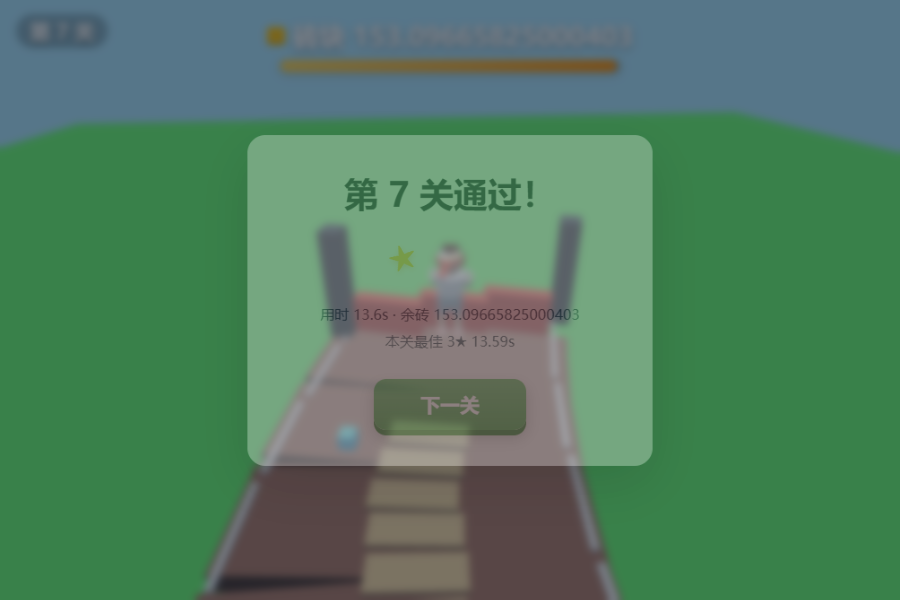
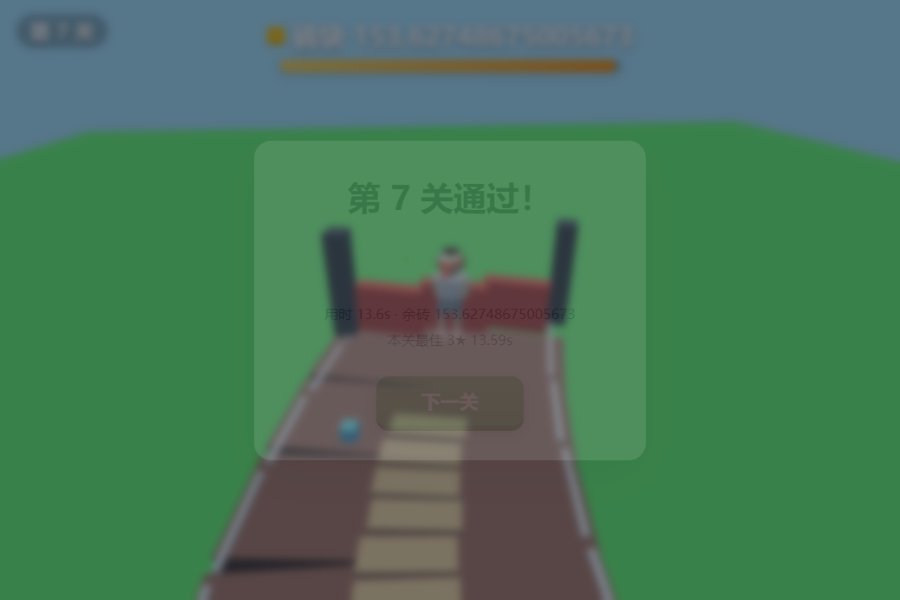
自由铺板机制移植 Cocos 版(与浏览器版对齐): TrackBuilder.spawnPlank/isOnMainRoad + GameApp.updateShortcut(耗板/加速/最后一跃) + 终点到达即过关 + 横向放宽; 浏览器加运行错误横幅; 四门全绿

Changed region(s): [[0.0, 0.18, 1.0, 1.0], [0.2178, 0.87, 0.5289, 1.0]]

diff --git a/assets/scripts/GameApp.ts b/assets/scripts/GameApp.ts
@@ -65,10 +65,12 @@ export class GameApp extends Component {
   private heldRight = false;
   private elapsed = 0;
   private runT0 = 0;
-  private speedDip = 0; // 铺桥瞬间轻微减速（J4 手感）
   private runCycle = 0; // 角色步态相位
   private fell = false;  // 是否坠落死亡（决定 lose 姿势：旋水 or 站立）
-  private bridgeT = 0;   // 铺桥推掷动作剩余时间（v2 增强）
+  private bridgeT = 0;   // 铺板推掷动作剩余时间（v2 增强）
+  private offRoad = false; // 当前是否在主路外（铺板模式）
+  private plankAcc = 0;    // 累计铺板距离（米）
+  private leapGrace = 0;   // 剩余最后一跃距离（米），>0 表示飞跃中不耗板
   private curve: CurveState = { amp: 0, freq: 0.12, phase: 0 }; // 弯道（表现层）
 
   onLoad(): void {
@@ -243,7 +245,8 @@ export class GameApp extends Component {
   }
 
   private clampTarget(): void {
-    const m = this.cfg.trackHalfWidth - 0.45;
+    // 允许横移出主路铺捷径（超出主路半宽即耗板，原版机制）
+    const m = this.cfg.trackHalfWidth + 3.5;
     this.targetX = clamp(this.targetX, -m, m);
   }
 
@@ -268,15 +271,17 @@ export class GameApp extends Component {
 
     if (this.state === 'run') {
       if (this.shoeT > 0) this.shoeT -= dt;
-      if (this.speedDip > 0) this.speedDip -= dt;
+      if (this.bridgeT > 0) this.bridgeT -= dt;
       // 提速鞋：终速 ×1.35（可短暂超 maxSpeed，提速感优先；母本 botRun 同口径）
-      // 铺桥瞬间减速 ×0.55（J4：给“落桥”一个可感知的停顿）
+      // 铺捷径加速 ×offRoadBoost（赌板子换速度，原版 Shortcut Run 规则）
       this.speed = Math.min(this.cfg.maxSpeed, this.cfg.runSpeed + this.bricks * this.cfg.speedPerBrick)
-        * (this.shoeT > 0 ? 1.35 : 1) * (this.speedDip > 0 ? 0.55 : 1);
-      z += this.speed * dt;
+        * (this.shoeT > 0 ? 1.35 : 1) * (this.offRoad ? (this.cfg.offRoadBoost ?? 1.15) : 1);
+      const adv = this.speed * dt; // 本帧前进距离（米）——铺板按距离耗板
+      z += adv;
       const k = 1 - Math.exp(-this.cfg.steerSpeed * dt);
       x += (this.targetX - x) * k;
       y = 0;
+      this.updateShortcut(x, z, adv); // 自由铺板核心（原版机制）
     } else if (this.state === 'fall') {
       this.fallVel += 22 * dt;
       y -= this.fallVel * dt;
@@ -293,7 +298,6 @@ export class GameApp extends Component {
 
     if (this.state === 'run') {
       this.checkPickups(x, prevZ, z);
-      this.checkGaps(prevZ, z);
       this.checkGates(prevZ, z);
       this.checkGate(z);
     }
@@ -345,26 +349,40 @@ export class GameApp extends Component {
     }
   }
 
-  // 断崖判定：本帧是否进入断崖区（扫掠，防穿透）。砖够拍桥，砖不够掉落
-  private checkGaps(prevZ: number, z: number): void {
-    for (const g of this.levelDef.gaps) {
-      if (g.bridged) continue;
-      if (z >= g.zStart && prevZ < g.zEnd + 0.5) {
-        if (this.bricks >= g.cost) {
-          this.bricks -= g.cost;
-          g.bridged = true;
-          this.track.bridge(g);
-          this.ui?.setBricks(this.bricks);
-          this.audio?.play('bridge');
-          this.speedDip = 0.35;                 // J4：落桥停顿
-          this.bridgeT = 0.4;                    // v2：铺桥推掷动作窗
-          this.camFollow.addShake(0.22, 0.25);  // J1：落桥震屏
-          console.log(`[ShortcutRun] 铺桥 -${g.cost} 砖，剩余 ${this.bricks}`);
-        } else {
-          this.enterFall();
-        }
-        return;
-      }
+  // ===== 自由铺板捷径（原版 Shortcut Run 核心机制，2026-09-22 复刻） =====
+  // 规则：脚在主路上（半宽内且非缺口）= 免费；离开主路即进入铺板模式——
+  // 每前进 1 米消耗 plankCostPerMeter 块板、每 plankStride 米生成一块板（视觉轨迹），
+  // 并获得 offRoadBoost 加速（赌板子换速度）；板子耗尽时给 1.2m 最后一跃，
+  // 飞跃中落回主路则生还，否则坠落。
+  private updateShortcut(x: number, z: number, adv: number): void {
+    const realOnRoad = this.track.isOnMainRoad(x, z);
+    // 最后一跃优先于“回主路”复位（否则 leapGrace 被立即清掉永坠不了）
+    if (this.leapGrace > 0) {
+      if (realOnRoad) { this.leapGrace = 0; this.offRoad = false; return; } // 落到主路=生还
+      this.leapGrace -= adv;
+      if (this.leapGrace <= 0) { this.enterFall(); return; }
+      return;
+    }
+    if (realOnRoad) { this.offRoad = false; return; }
+
+    if (!this.offRoad) {
+      this.offRoad = true;
+      this.plankAcc = 0;
+      console.log('[ShortcutRun] 离开主路，开始铺板捷径');
+      this.audio?.play('bridge');
+    }
+    this.bridgeT = 0.25; // 铺板推掷动作窗（v2 增强）
+    this.camFollow.addShake(0.05, 0.1);
+
+    if (this.bricks <= 0) { this.leapGrace = 1.2; return; } // 触发最后一跃
+
+    this.plankAcc += adv;
+    this.bricks = Math.max(0, this.bricks - (this.cfg.plankCostPerMeter ?? 1) * adv);
+    this.ui?.setBricks(Math.floor(this.bricks));
+
+    if (this.plankAcc >= (this.cfg.plankStride ?? 0.6)) {
+      this.plankAcc = 0;
+      this.track.spawnPlank(z, x);
     }
   }
 
@@ -378,10 +396,7 @@ export class GameApp extends Component {
   }
 
   private checkGate(z: number): void {
-    if (z >= this.levelDef.gateZ - 0.5) {
-      if (this.bricks >= this.cfg.gateCost) this.win();
-      else this.lose(`终点砖不够 ${this.bricks}/${this.cfg.gateCost}`);
-    }
+    if (z >= this.levelDef.gateZ - 0.5) this.win(); // 原版规则：到达终点即过关（星级按用时/余砖）
   }
 
   // ---------------- 状态切换 ----------------

diff --git a/assets/scripts/TrackBuilder.ts b/assets/scripts/TrackBuilder.ts
@@ -30,6 +30,34 @@ export class TrackBuilder extends Component {
   private gateWalls: Node[] = [];
   private stackNodes: Node[] = [];
   private rig: CharRig | null = null;
+  private plankPool: Node[] = [];  // 铺板轨迹池（自由铺板机制）
+  private plankCursor = 0;
+
+  // 铺一块板（Pool：未满新增，满后循环复用最老的）；pos 为 level-space
+  spawnPlank(z: number, x: number): void {
+    const c = this.curve;
+    const h = headingAt(z, c);
+    const px = bendX(z, c) + x * Math.cos(h) + (Math.random() - 0.5) * 0.15;
+    let node = this.plankPool[this.plankCursor];
+    if (!node) {
+      node = this.box('plank',
+        new Vec3(1.5, 0.1, (this.cfg.plankStride ?? 0.6) * 0.95),
+        new Vec3(px, 0.02, z - 0.2), this.node);
+      node.eulerAngles = new Vec3(0, h, 0);
+      if (this.plankPool.length < (this.cfg.plankPoolMax ?? 300)) this.plankPool.push(node);
+    } else {
+      this.plankCursor = (this.plankCursor + 1) % (this.cfg.plankPoolMax ?? 300);
+      node.setPosition(new Vec3(px, 0.02, z - 0.2));
+      node.eulerAngles = new Vec3(0, h, 0);
+    }
+  }
+
+  isOnMainRoad(x: number, z: number): boolean {
+    if (z >= this.level.gateZ - 0.5) return true;
+    if (Math.abs(x - bendX(z, this.curve)) > this.cfg.trackHalfWidth) return false;
+    for (const g of this.level.gaps) if (z >= g.zStart - 0.15 && z <= g.zEnd + 0.15) return false;
+    return true;
+  }
 
   private box(kind: BoxKind, scale: Vec3, pos: Vec3, parent: Node): Node {
     if (this.boxPrefab) {

diff --git a/assets/scripts/BoxFactory.ts b/assets/scripts/BoxFactory.ts
@@ -6,17 +6,20 @@ const { ccclass } = _decorator;
 import { _decorator, Node, Vec3, Mesh, MeshRenderer, Material, utils, primitives, Color } from 'cc';
 import { currentTheme, colorOf } from './Theme';
 
-export type BoxKind = 'road' | 'ground' | 'brick' | 'bridge' | 'player' | 'limb' | 'skin' | 'gate' | 'pillar'
+export type BoxKind = 'road' | 'ground' | 'brick' | 'bridge' | 'plank' | 'player' | 'limb' | 'skin' | 'gate' | 'pillar'
   | 'gateAdd' | 'gateMul' | 'shoe' | 'building1' | 'building2' | 'edge' | 'warn1' | 'warn2';
+
+// 固定色（不随主题）：道路边线 + 断崖警示条纹 + 铺板轨迹（J2/自由铺板）
+
+// 固定色（不随主题）：道路边线 + 断崖警示条纹（J2 视觉可读性）
+// 必须在 colors = buildColors() 之前初始化，否则打包后 Object.keys(FIXED) 会拿到 undefined
+const FIXED: Partial<Record<BoxKind, number>> = {
+  edge: 0xf5f5f5, warn1: 0xffc107, warn2: 0x37474f, plank: 0xb08968,
+};
 
 let sharedMesh: Mesh | null = null;
 let colors: Record<BoxKind, Color> = buildColors();
 const matCache = new Map<BoxKind, Material>();
-
-// 固定色（不随主题）：道路边线 + 断崖警示条纹（J2 视觉可读性）
-const FIXED: Partial<Record<BoxKind, number>> = {
-  edge: 0xf5f5f5, warn1: 0xffc107, warn2: 0x37474f,
-};
 
 function buildColors(): Record<BoxKind, Color> {
   const t = currentTheme();

diff --git a/web-preview/index.html b/web-preview/index.html
@@ -1027,6 +1027,12 @@ function checkGates(prevZ, z) {
   }
 }
 // （v3 起：断崖自动扣费桥已废弃，改为持续自由铺板机制，见下方 updateShortcut）
+window.addEventListener('error', (e) => {
+  const d = document.createElement('div');
+  d.textContent = '运行错误: ' + (e.message || e.type);
+  d.style.cssText = 'position:fixed;left:8px;bottom:8px;right:8px;background:#c62828;color:#fff;font:13px monospace;padding:10px;border-radius:8px;z-index:99;white-space:pre-wrap;';
+  document.body.appendChild(d);
+});
 // ===== 自由铺板捷径（原版 Shortcut Run 核心机制） =====
 // 规则：脚在主路上（半宽内且非缺口）= 免费；离开主路即进入铺板模式——
 // 每前进 1 米消耗 plankCostPerMeter 块板，脚下持续生成板子（视觉轨迹），

diff --git a/assets/scripts/config.ts b/assets/scripts/config.ts
@@ -31,6 +31,12 @@ export interface Cfg {
   curveFreq?: number;      // 弯曲频率(每米弧度)
   curvePhase?: number;     // 相位(每关不同,弯形不重样)
 
+  // ---- 自由铺板捷径(原版核心机制,离开主路持续耗板铺路) ----
+  plankCostPerMeter?: number; // 离开主路后每米消耗板子
+  plankStride?: number;       // 每多少米留一块板(视觉)
+  offRoadBoost?: number;      // 铺捷径加速倍率(赌板子换速度)
+  plankPoolMax?: number;      // 板子视觉池上限
+
   // ---- v4 道具(加砖门/倍数门/加速鞋,母本 bridge-rules v4) ----
   enableItems?: boolean;   // true 时由 GameApp 走 LevelCurve.itemsFor 分带;缺省关闭=输出与 v3 逐字节一致
 
